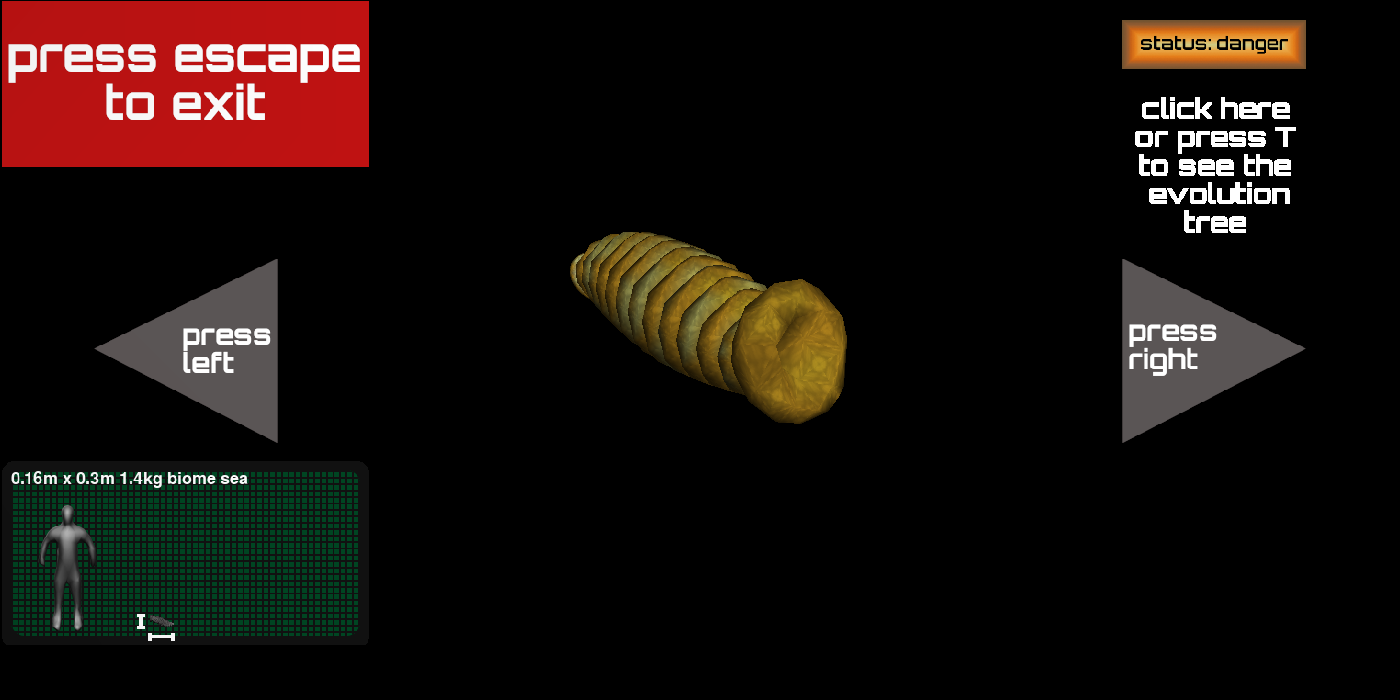
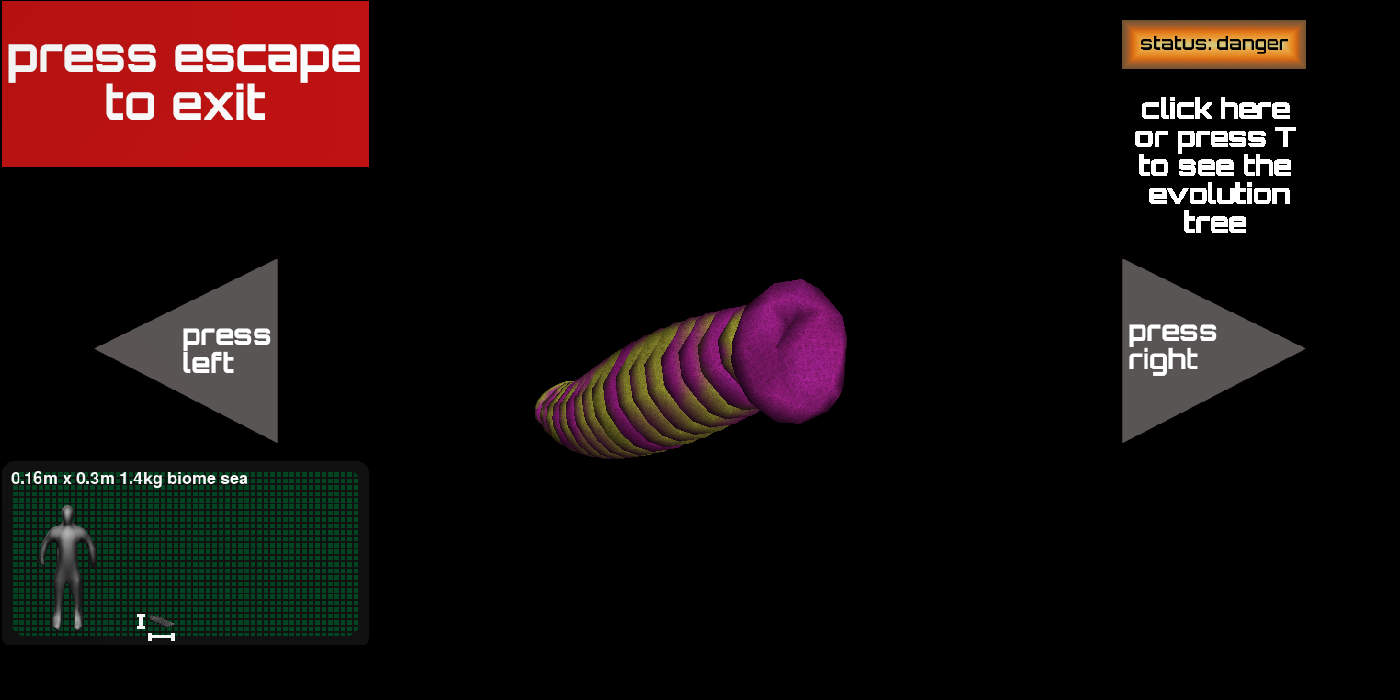
tuto2

Changed region(s): [[0.3686, 0.33, 0.6143, 0.66]]

diff --git a/evolve.py b/evolve.py
@@ -410,10 +410,12 @@ for i in range(0,140):
 	for j in range(0,70):
 		continentM[i][j]=(0,0,0)
 tuto=pygame.image.load("tuto.png").convert_alpha()
+tutoF=pygame.image.load("tutoF.png").convert_alpha()
 legendT=pygame.image.load("legendT.png").convert_alpha()
 legendH=pygame.image.load("legendH.png").convert_alpha()
 legend0=pygame.image.load("legend0.png").convert_alpha()
 legendtree=pygame.image.load("legendtree.png").convert_alpha()
+
 nbgraine=0
 tropw=pygame.image.load("tropicalwater.png").convert_alpha()
 coldw=pygame.image.load("coldwater.png").convert_alpha()
@@ -1860,7 +1862,10 @@ marker=pygame.Surface((10,10),pygame.SRCALPHA, 32)
 vue=pygame.Surface((70,70),pygame.SRCALPHA, 32)
 tuto_step=0
 
-tutotext=['Welcome in Evolve, the goal of this game is to make your group of creatures survive and evolve in a constantly changing world. First you can name your creature. Evolve is a turn based game, each turn is a step in the time where your group of creature and its environment may change, you thus have to carefully guide your group to adapted biomes']
+tutotext=['Welcome in Evolve, the goal of this game is to make your group of creatures survive and evolve in a constantly changing world. First you can name your creature. Evolve is a turn based game, each turn is a step in the time where your group of creatures and its environment may change, you thus have to carefully guide your group to adapted biomes. Click on next.',
+'To survive you must keep your population high enough at each turn. Your population naturally grows if the case on which you move contains enough food and that you are well adapted to this environment. By moving your mouse above cases adjacent to your creature you can see if the population will grow. The case is highlighted in green if the population will rise and red else. Click on next.'
+,'As you are not adapted to any biome for now the adjacent cases are orange or red, do not worry, your creature will adapt to this sea biome quickly. Please click on an adjacent case to go to the next turn, you cannot stay on the same case two turns in a row. You can see that new cases have been revealed when you moved, exploration of the world is also important in Evolve. Click on next.'
+]
 
 def Tutoriel(t_step):
 	fenetre.blit(tuto,(350,400))
@@ -1877,6 +1882,8 @@ def Tutoriel(t_step):
 		if x+t.get_width()>600:
 			x=0
 			y=y+20
+	if t_step==1:
+		fenetre.blit(pygame.transform.flip(tutoF,1,0),(950,150))
 
 
 def menu():
@@ -1904,7 +1911,7 @@ def menu():
 	textRect = text.get_rect()
 	textRect.center = (1225, 155)
 	fenetre.blit(text,textRect)
-	if tuto_step<100:
+	if tuto_step<len(tutotext):
 		Tutoriel(tuto_step)
 
 def selector(x,y,specie):
@@ -3947,12 +3954,25 @@ while q==0:
 					if clic[0]==1:
 						showtree=1
 			
-			if tuto_step<100:
+			if tuto_step<len(tutotext):
 				if abs(mous[0]-615-350)<75:
 					if abs(mous[1]-435)<15:
 						pygame.mouse.set_cursor(*pygame.cursors.diamond)
 						if clic[0]==1:
-							tuto_step=100
+							tuto_step=len(tutotext)
+				if abs(mous[0]-615-350)<75:
+					if abs(mous[1]-665)<15:
+						pygame.mouse.set_cursor(*pygame.cursors.diamond)
+						if clic[0]==1:
+							tuto_step+=1
+							pygame.time.wait(300)
+				if abs(mous[0]-85-350)<75:
+					if abs(mous[1]-665)<15:
+						pygame.mouse.set_cursor(*pygame.cursors.diamond)
+						if clic[0]==1:
+							tuto_step=max(tuto_step-1,0)
+							pygame.time.wait(300)
+			
 		
 		if showcreature==1:
 			im=pygame.image.load("frise.png")
